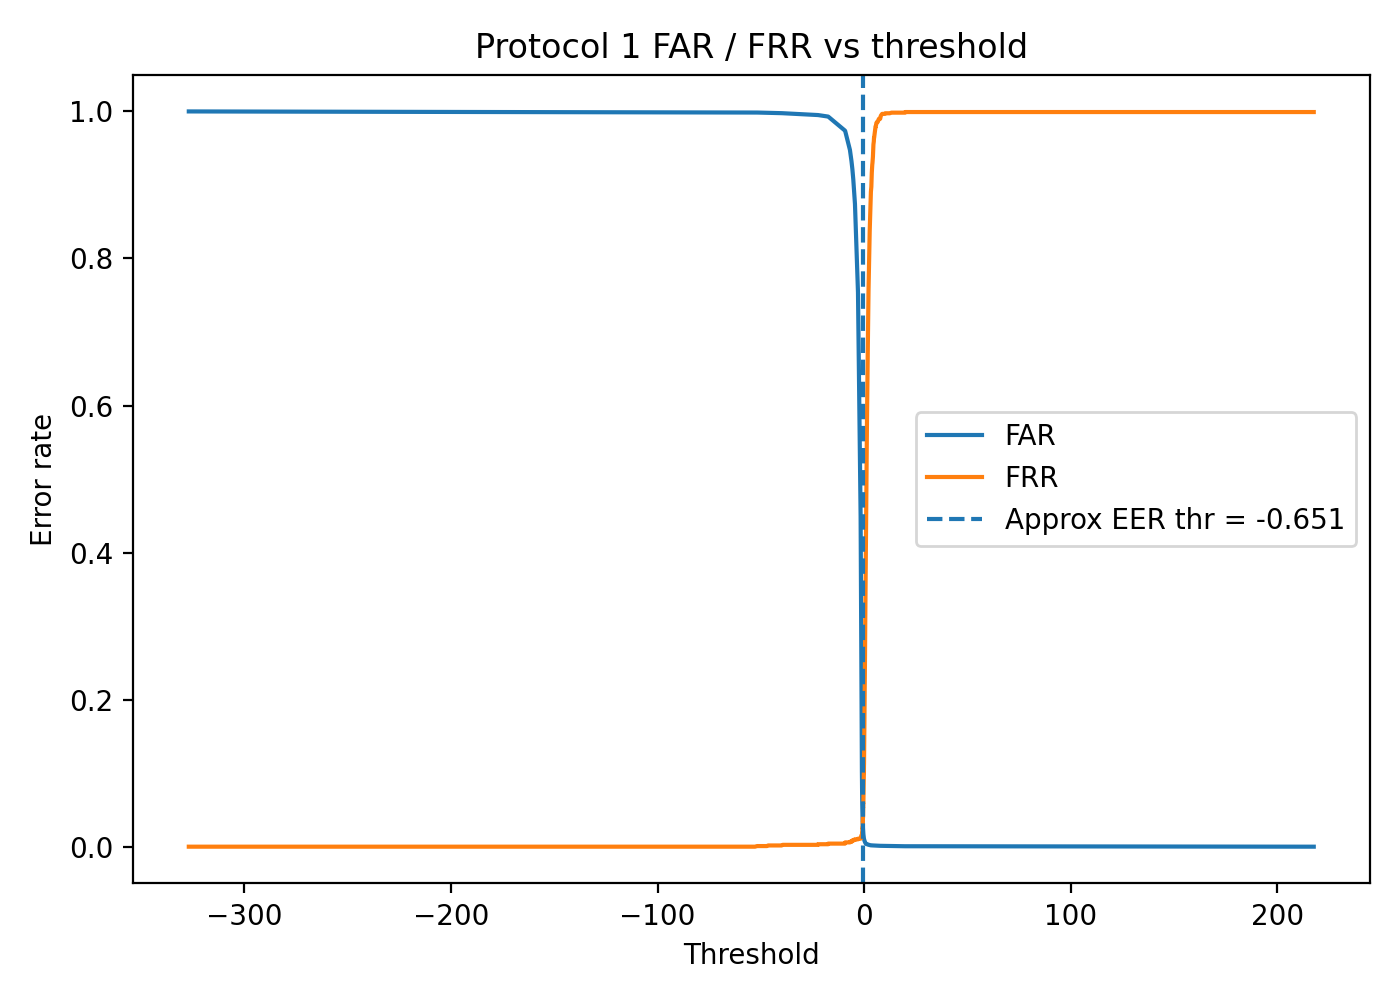
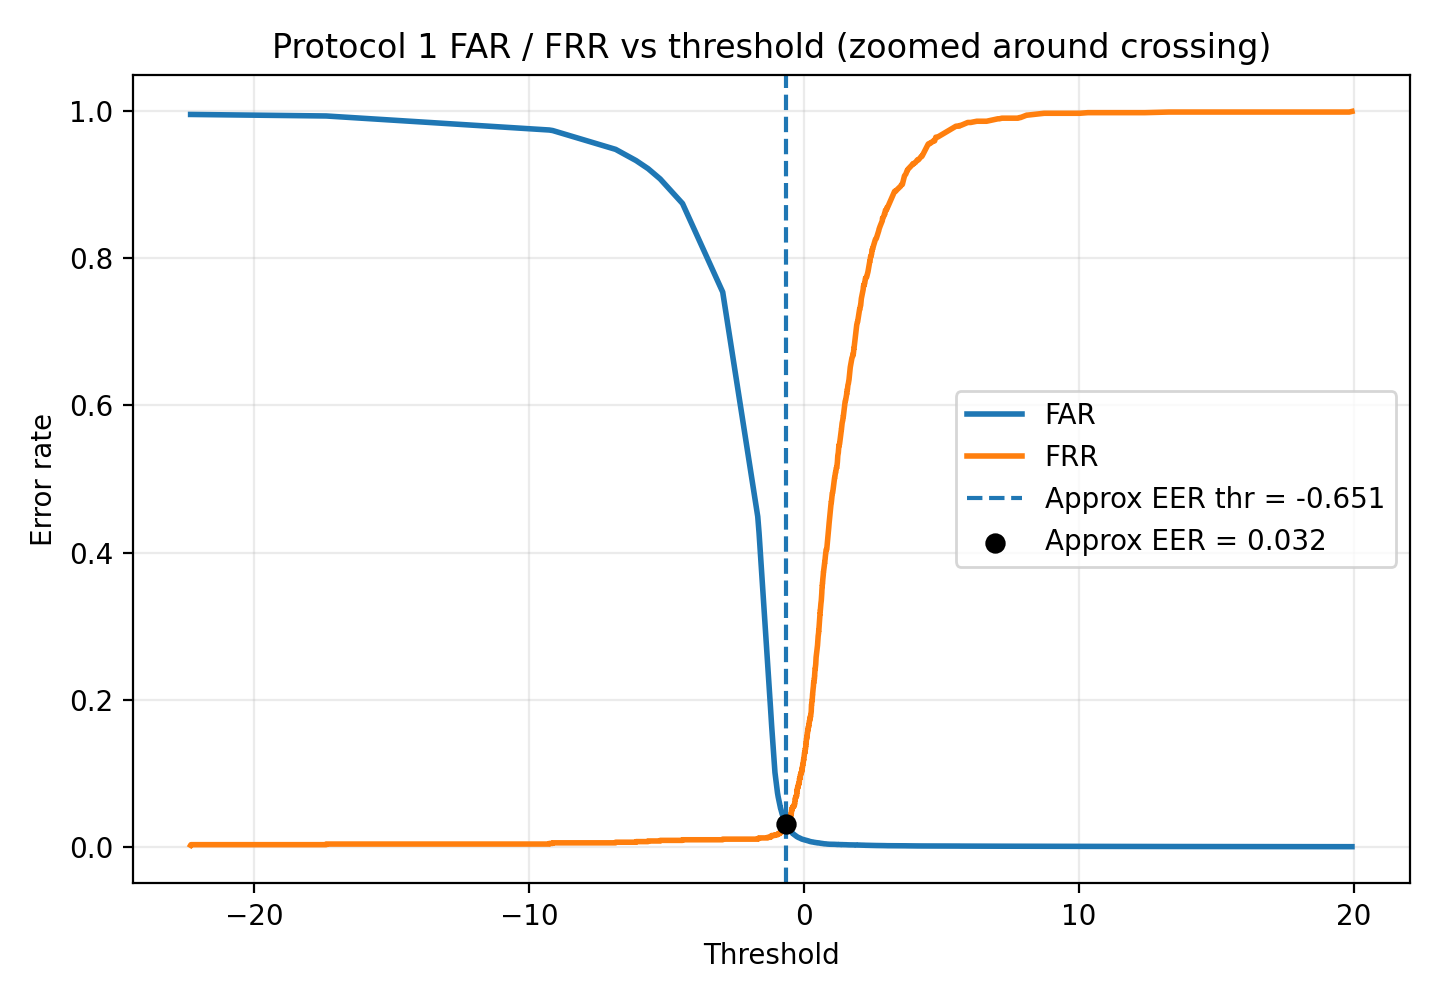
update plots

diff --git a/scripts/evaluate_models.py b/scripts/evaluate_models.py
@@ -66,18 +66,83 @@ def eer_from_scores(y_true: np.ndarray, scores: np.ndarray) -> tuple[float, floa
     return eer, float(thresholds[idx]), float(fpr[idx]), float(fnr[idx])
 
 
-def save_score_histogram(genuine: np.ndarray, impostor: np.ndarray, threshold: float, out_path: Path, title: str) -> None:
-    plt.figure(figsize=(8, 5))
-    plt.hist(genuine, bins=30, alpha=0.7, density=True, label="Genuine")
-    plt.hist(impostor, bins=30, alpha=0.7, density=True, label="Impostor")
-    plt.axvline(threshold, linestyle="--", label=f"Mean threshold = {threshold:.3f}")
-    plt.xlabel("Decision score")
-    plt.ylabel("Density")
-    plt.title(title)
-    plt.legend()
-    plt.tight_layout()
-    plt.savefig(out_path, dpi=200)
-    plt.close()
+def _standardize_subject_scores(genuine: np.ndarray, impostor: np.ndarray) -> tuple[np.ndarray, np.ndarray]:
+    stacked = np.concatenate([genuine, impostor])
+    mean = float(np.mean(stacked))
+    std = float(np.std(stacked))
+    if std < 1e-12:
+        std = 1.0
+    return (genuine - mean) / std, (impostor - mean) / std
+
+
+def save_standardized_score_plot(
+    p1_genuine_by_subject: list[np.ndarray],
+    p1_impostor_by_subject: list[np.ndarray],
+    p2_genuine_by_subject: list[np.ndarray],
+    p2_impostor_by_subject: list[np.ndarray],
+    out_path: Path,
+) -> None:
+    p1_genuine_z: list[np.ndarray] = []
+    p1_impostor_z: list[np.ndarray] = []
+    p2_genuine_z: list[np.ndarray] = []
+    p2_impostor_z: list[np.ndarray] = []
+
+    for genuine, impostor in zip(p1_genuine_by_subject, p1_impostor_by_subject, strict=True):
+        g_z, i_z = _standardize_subject_scores(genuine, impostor)
+        p1_genuine_z.append(g_z)
+        p1_impostor_z.append(i_z)
+
+    for genuine, impostor in zip(p2_genuine_by_subject, p2_impostor_by_subject, strict=True):
+        g_z, i_z = _standardize_subject_scores(genuine, impostor)
+        p2_genuine_z.append(g_z)
+        p2_impostor_z.append(i_z)
+
+    p1_genuine_pool = np.concatenate(p1_genuine_z)
+    p1_impostor_pool = np.concatenate(p1_impostor_z)
+    p2_genuine_pool = np.concatenate(p2_genuine_z)
+    p2_impostor_pool = np.concatenate(p2_impostor_z)
+
+    fig, axes = plt.subplots(1, 2, figsize=(11, 4.5), sharey=True)
+    panels = [
+        (axes[0], p1_genuine_pool, p1_impostor_pool, "Protocol 1 standardized scores"),
+        (axes[1], p2_genuine_pool, p2_impostor_pool, "Protocol 2 standardized scores"),
+    ]
+
+    for ax, genuine_values, impostor_values, title in panels:
+        violin = ax.violinplot(
+            [genuine_values, impostor_values],
+            positions=[1, 2],
+            widths=0.8,
+            showmeans=True,
+            showextrema=False,
+        )
+        colors = ["#2a9d8f", "#e76f51"]
+        for idx, body in enumerate(violin["bodies"]):
+            body.set_facecolor(colors[idx])
+            body.set_alpha(0.45)
+            body.set_edgecolor("black")
+
+        ax.boxplot(
+            [genuine_values, impostor_values],
+            positions=[1, 2],
+            widths=0.25,
+            patch_artist=True,
+            boxprops={"facecolor": "white", "edgecolor": "black"},
+            medianprops={"color": "black"},
+            whiskerprops={"color": "black"},
+            capprops={"color": "black"},
+            showfliers=False,
+        )
+        ax.axhline(0.0, linestyle="--", linewidth=1.0, color="gray")
+        ax.set_xticks([1, 2])
+        ax.set_xticklabels(["Genuine", "Impostor"])
+        ax.set_title(title)
+        ax.set_ylabel("Per-subject standardized score (z)")
+
+    fig.suptitle("Score distributions after per-subject standardization")
+    fig.tight_layout()
+    fig.savefig(out_path, dpi=220)
+    plt.close(fig)
 
 
 def save_roc_plot(y_true: np.ndarray, scores: np.ndarray, out_path: Path, title: str) -> float:
@@ -100,18 +165,85 @@ def save_far_frr_plot(y_true: np.ndarray, scores: np.ndarray, out_path: Path, ti
     fpr, tpr, thresholds = roc_curve(y_true, scores)
     fnr = 1.0 - tpr
     idx = int(np.nanargmin(np.abs(fpr - fnr)))
-    plt.figure(figsize=(7, 5))
-    plt.plot(thresholds, fpr, label="FAR")
-    plt.plot(thresholds, fnr, label="FRR")
-    plt.axvline(thresholds[idx], linestyle="--", label=f"Approx EER thr = {thresholds[idx]:.3f}")
+
+    finite = np.isfinite(thresholds)
+    thresholds_f = thresholds[finite]
+    fpr_f = fpr[finite]
+    fnr_f = fnr[finite]
+
+    order = np.argsort(thresholds_f)
+    thresholds_f = thresholds_f[order]
+    fpr_f = fpr_f[order]
+    fnr_f = fnr_f[order]
+
+    eer_threshold = float(thresholds[idx])
+    span = float(np.std(thresholds_f)) * 1.5
+    if span <= 0:
+        span = float(np.max(thresholds_f) - np.min(thresholds_f)) * 0.2
+    if span <= 0:
+        span = 1.0
+
+    zoom_mask = (thresholds_f >= eer_threshold - span) & (thresholds_f <= eer_threshold + span)
+    if np.sum(zoom_mask) < 10:
+        zoom_mask = np.ones_like(thresholds_f, dtype=bool)
+
+    plt.figure(figsize=(7.2, 5.0))
+    plt.plot(thresholds_f[zoom_mask], fpr_f[zoom_mask], label="FAR", linewidth=2)
+    plt.plot(thresholds_f[zoom_mask], fnr_f[zoom_mask], label="FRR", linewidth=2)
+    plt.axvline(eer_threshold, linestyle="--", label=f"Approx EER thr = {eer_threshold:.3f}")
+    plt.scatter(
+        [eer_threshold],
+        [float((fpr[idx] + fnr[idx]) / 2.0)],
+        marker="o",
+        s=40,
+        color="black",
+        label=f"Approx EER = {((fpr[idx] + fnr[idx]) / 2.0):.3f}",
+        zorder=5,
+    )
     plt.xlabel("Threshold")
     plt.ylabel("Error rate")
-    plt.title(title)
+    plt.title(f"{title} (zoomed around crossing)")
     plt.legend()
+    plt.grid(alpha=0.25)
     plt.tight_layout()
     plt.savefig(out_path, dpi=200)
     plt.close()
     return {"eer": float((fpr[idx] + fnr[idx]) / 2.0), "threshold": float(thresholds[idx])}
+
+
+def save_protocol_error_bar_plot(summary_df: pd.DataFrame, p1_cohort_eer: float, p2_cohort_eer: float, out_path: Path) -> None:
+    categories = ["Mean FAR", "Mean FRR", "Cohort EER"]
+    p1_values = [
+        float(summary_df["p1_far"].mean()) * 100.0,
+        float(summary_df["p1_frr"].mean()) * 100.0,
+        float(p1_cohort_eer) * 100.0,
+    ]
+    p2_values = [
+        float(summary_df["p2_far"].mean()) * 100.0,
+        float(summary_df["p2_frr"].mean()) * 100.0,
+        float(p2_cohort_eer) * 100.0,
+    ]
+
+    x = np.arange(len(categories))
+    width = 0.35
+
+    plt.figure(figsize=(8, 4.8))
+    bars1 = plt.bar(x - width / 2, p1_values, width, label="Protocol 1", color="#2a9d8f")
+    bars2 = plt.bar(x + width / 2, p2_values, width, label="Protocol 2", color="#e76f51")
+    plt.xticks(x, categories)
+    plt.ylabel("Rate (%)")
+    plt.title("Protocol comparison: error metrics")
+    plt.legend()
+    plt.grid(axis="y", alpha=0.25)
+
+    for bars in (bars1, bars2):
+        for bar in bars:
+            h = bar.get_height()
+            plt.text(bar.get_x() + bar.get_width() / 2, h + 0.7, f"{h:.2f}%", ha="center", va="bottom", fontsize=9)
+
+    plt.tight_layout()
+    plt.savefig(out_path, dpi=220)
+    plt.close()
 
 
 def main() -> None:
@@ -243,8 +375,6 @@ def main() -> None:
     summary_df = pd.DataFrame(summary_rows)
     summary_df.to_csv(thresholds_dir / "summary.csv", index=False)
 
-    mean_threshold = float(np.mean(thresholds))
-
     p1_gen = np.concatenate(cohort_p1_genuine)
     p1_imp = np.concatenate(cohort_p1_impostor)
     p2_gen = np.concatenate(cohort_p2_genuine)
@@ -255,24 +385,18 @@ def main() -> None:
     p2_y = np.hstack([np.ones(len(p2_gen)), np.zeros(len(p2_imp))])
     p2_scores = np.hstack([p2_gen, p2_imp])
 
-    save_score_histogram(
-        p1_gen,
-        p1_imp,
-        mean_threshold,
-        plots_dir / "protocol1_score_hist.png",
-        "Protocol 1 score distributions (within session)",
-    )
-    save_score_histogram(
-        p2_gen,
-        p2_imp,
-        mean_threshold,
-        plots_dir / "protocol2_score_hist.png",
-        "Protocol 2 score distributions (cross session)",
-    )
     p1_auc_cohort = save_roc_plot(p1_y, p1_scores, plots_dir / "protocol1_roc.png", "Protocol 1 ROC")
     p2_auc_cohort = save_roc_plot(p2_y, p2_scores, plots_dir / "protocol2_roc.png", "Protocol 2 ROC")
     p1_det = save_far_frr_plot(p1_y, p1_scores, plots_dir / "protocol1_far_frr.png", "Protocol 1 FAR / FRR vs threshold")
     p2_det = save_far_frr_plot(p2_y, p2_scores, plots_dir / "protocol2_far_frr.png", "Protocol 2 FAR / FRR vs threshold")
+    save_protocol_error_bar_plot(summary_df, p1_det["eer"], p2_det["eer"], plots_dir / "protocol_error_bar.png")
+    save_standardized_score_plot(
+        cohort_p1_genuine,
+        cohort_p1_impostor,
+        cohort_p2_genuine,
+        cohort_p2_impostor,
+        plots_dir / "standardized_score_violin.png",
+    )
 
     report = {
         "n_subjects": len(subjects),
@@ -301,12 +425,12 @@ def main() -> None:
             "cohort_eer": p2_det["eer"],
         },
         "plots": {
-            "protocol1_score_hist": str(plots_dir / "protocol1_score_hist.png"),
-            "protocol2_score_hist": str(plots_dir / "protocol2_score_hist.png"),
             "protocol1_roc": str(plots_dir / "protocol1_roc.png"),
             "protocol2_roc": str(plots_dir / "protocol2_roc.png"),
             "protocol1_far_frr": str(plots_dir / "protocol1_far_frr.png"),
             "protocol2_far_frr": str(plots_dir / "protocol2_far_frr.png"),
+            "protocol_error_bar": str(plots_dir / "protocol_error_bar.png"),
+            "standardized_score_violin": str(plots_dir / "standardized_score_violin.png"),
         },
     }
 